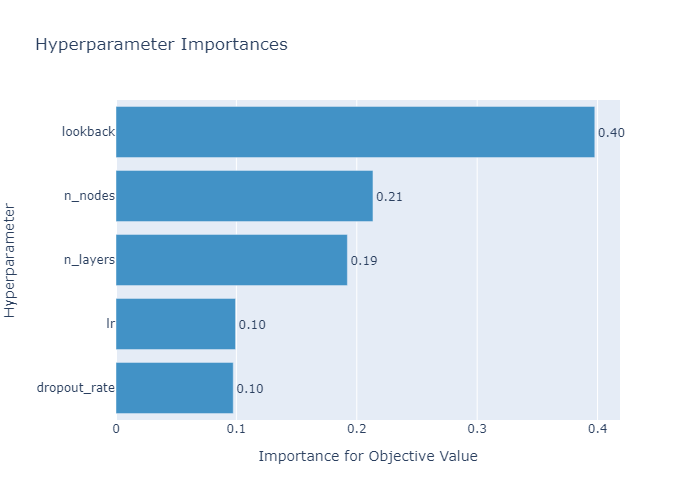
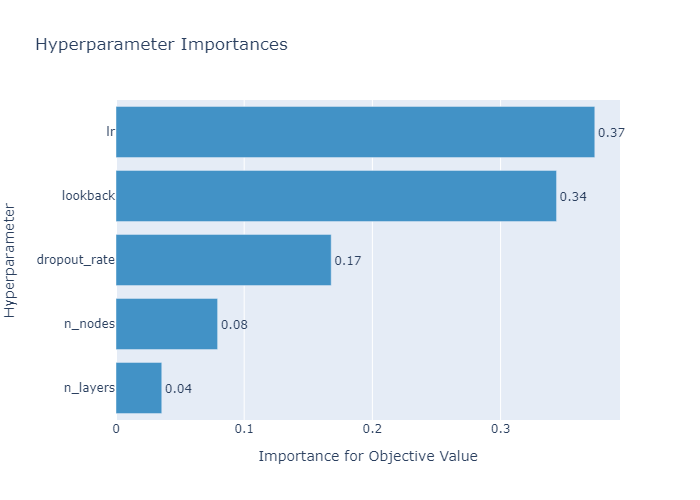
result update

diff --git a/src/script/tuning.py b/src/script/tuning.py
@@ -6,8 +6,8 @@ def objective(trial, norm_train, norm_val, trend):
     params = {
         'lookback' : trial.suggest_int("lookback", 5, 60, step=5),
         'lr' : trial.suggest_float("lr", 1e-5, 1e-1, log=True),
-        'n_nodes' : trial.suggest_int("n_nodes", 10, 200, step=10),
-        'n_layers' : trial.suggest_int("n_layers", 1, 5),
+        'n_nodes' : trial.suggest_int("n_nodes", 10, 100, step=10),
+        'n_layers' : trial.suggest_int("n_layers", 1, 3),
         'dropout_rate' : trial.suggest_float("dropout_rate", 0.2, 0.5)
     }
 
@@ -23,8 +23,8 @@ def study_early_stop(study, trial):
     if len(study.trials) < N:
         return
 
-    best_value = study.best_value
     values = [t.value for t in study.trials[-N:]]
+    best_value = min(values)
     if all((abs(v - best_value) < threshold) or (v > best_value) for v in values):
         study.stop()
 

diff --git a/src/script/execute.py b/src/script/execute.py
@@ -127,4 +127,4 @@ if __name__ == '__main__':
     if sys.argv[1].lower() not in ['true', 'false']:
         raise ValueError('Invalid input: please use True or False')
     trend = sys.argv[1].lower() == 'true'
-    main(trend, baseline=False)
+    main(trend, baseline=True)
